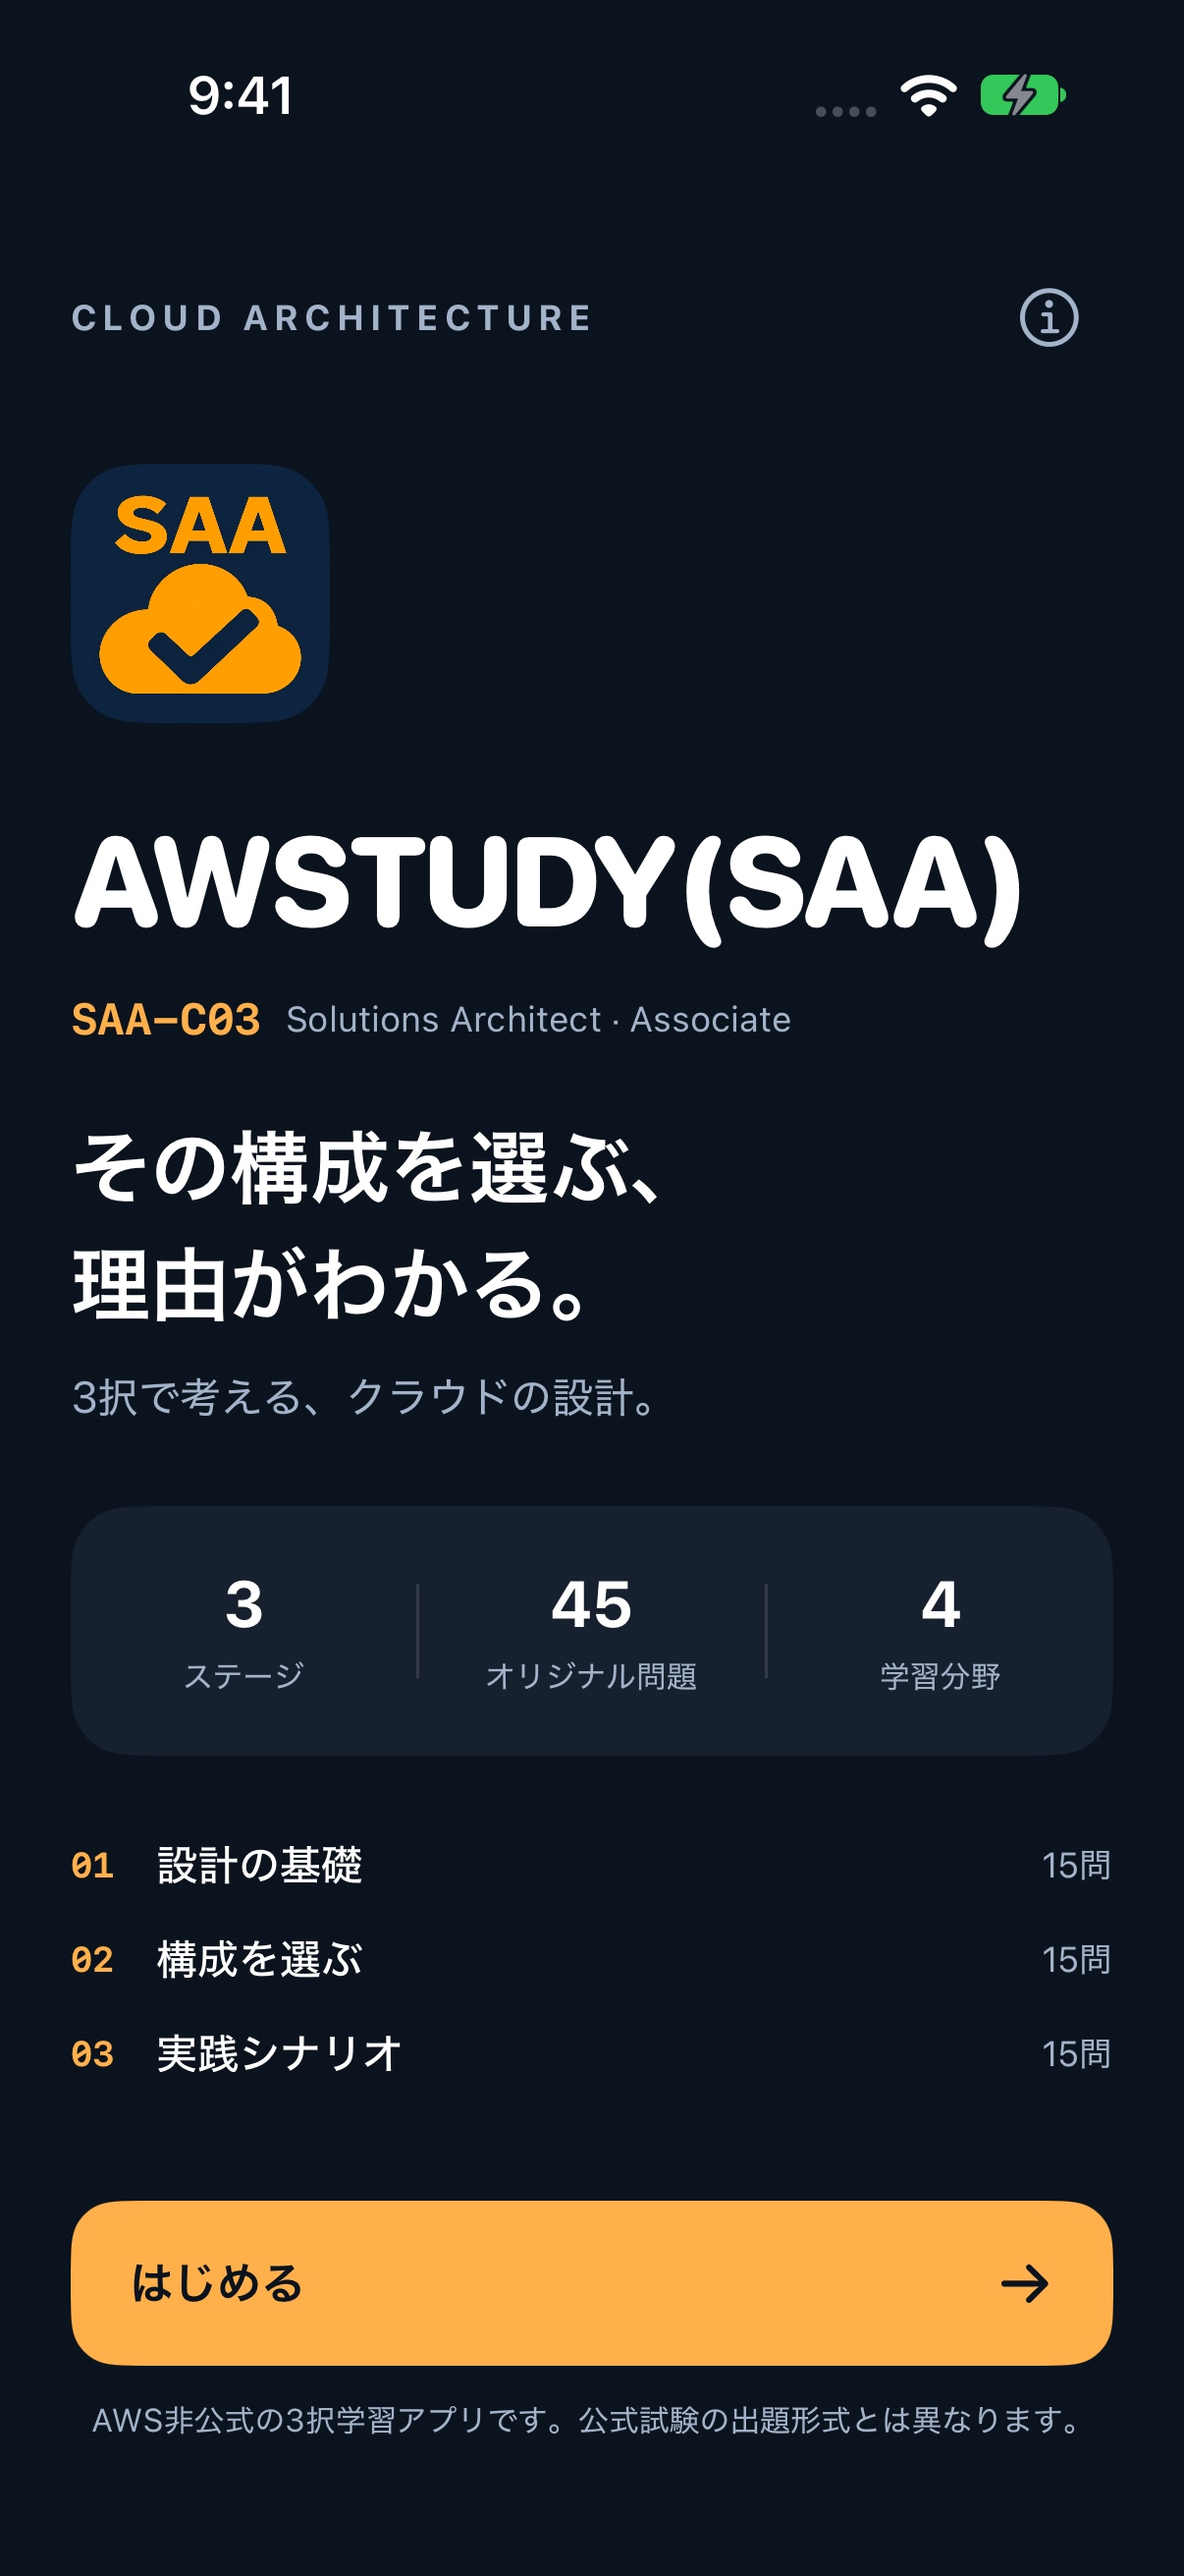
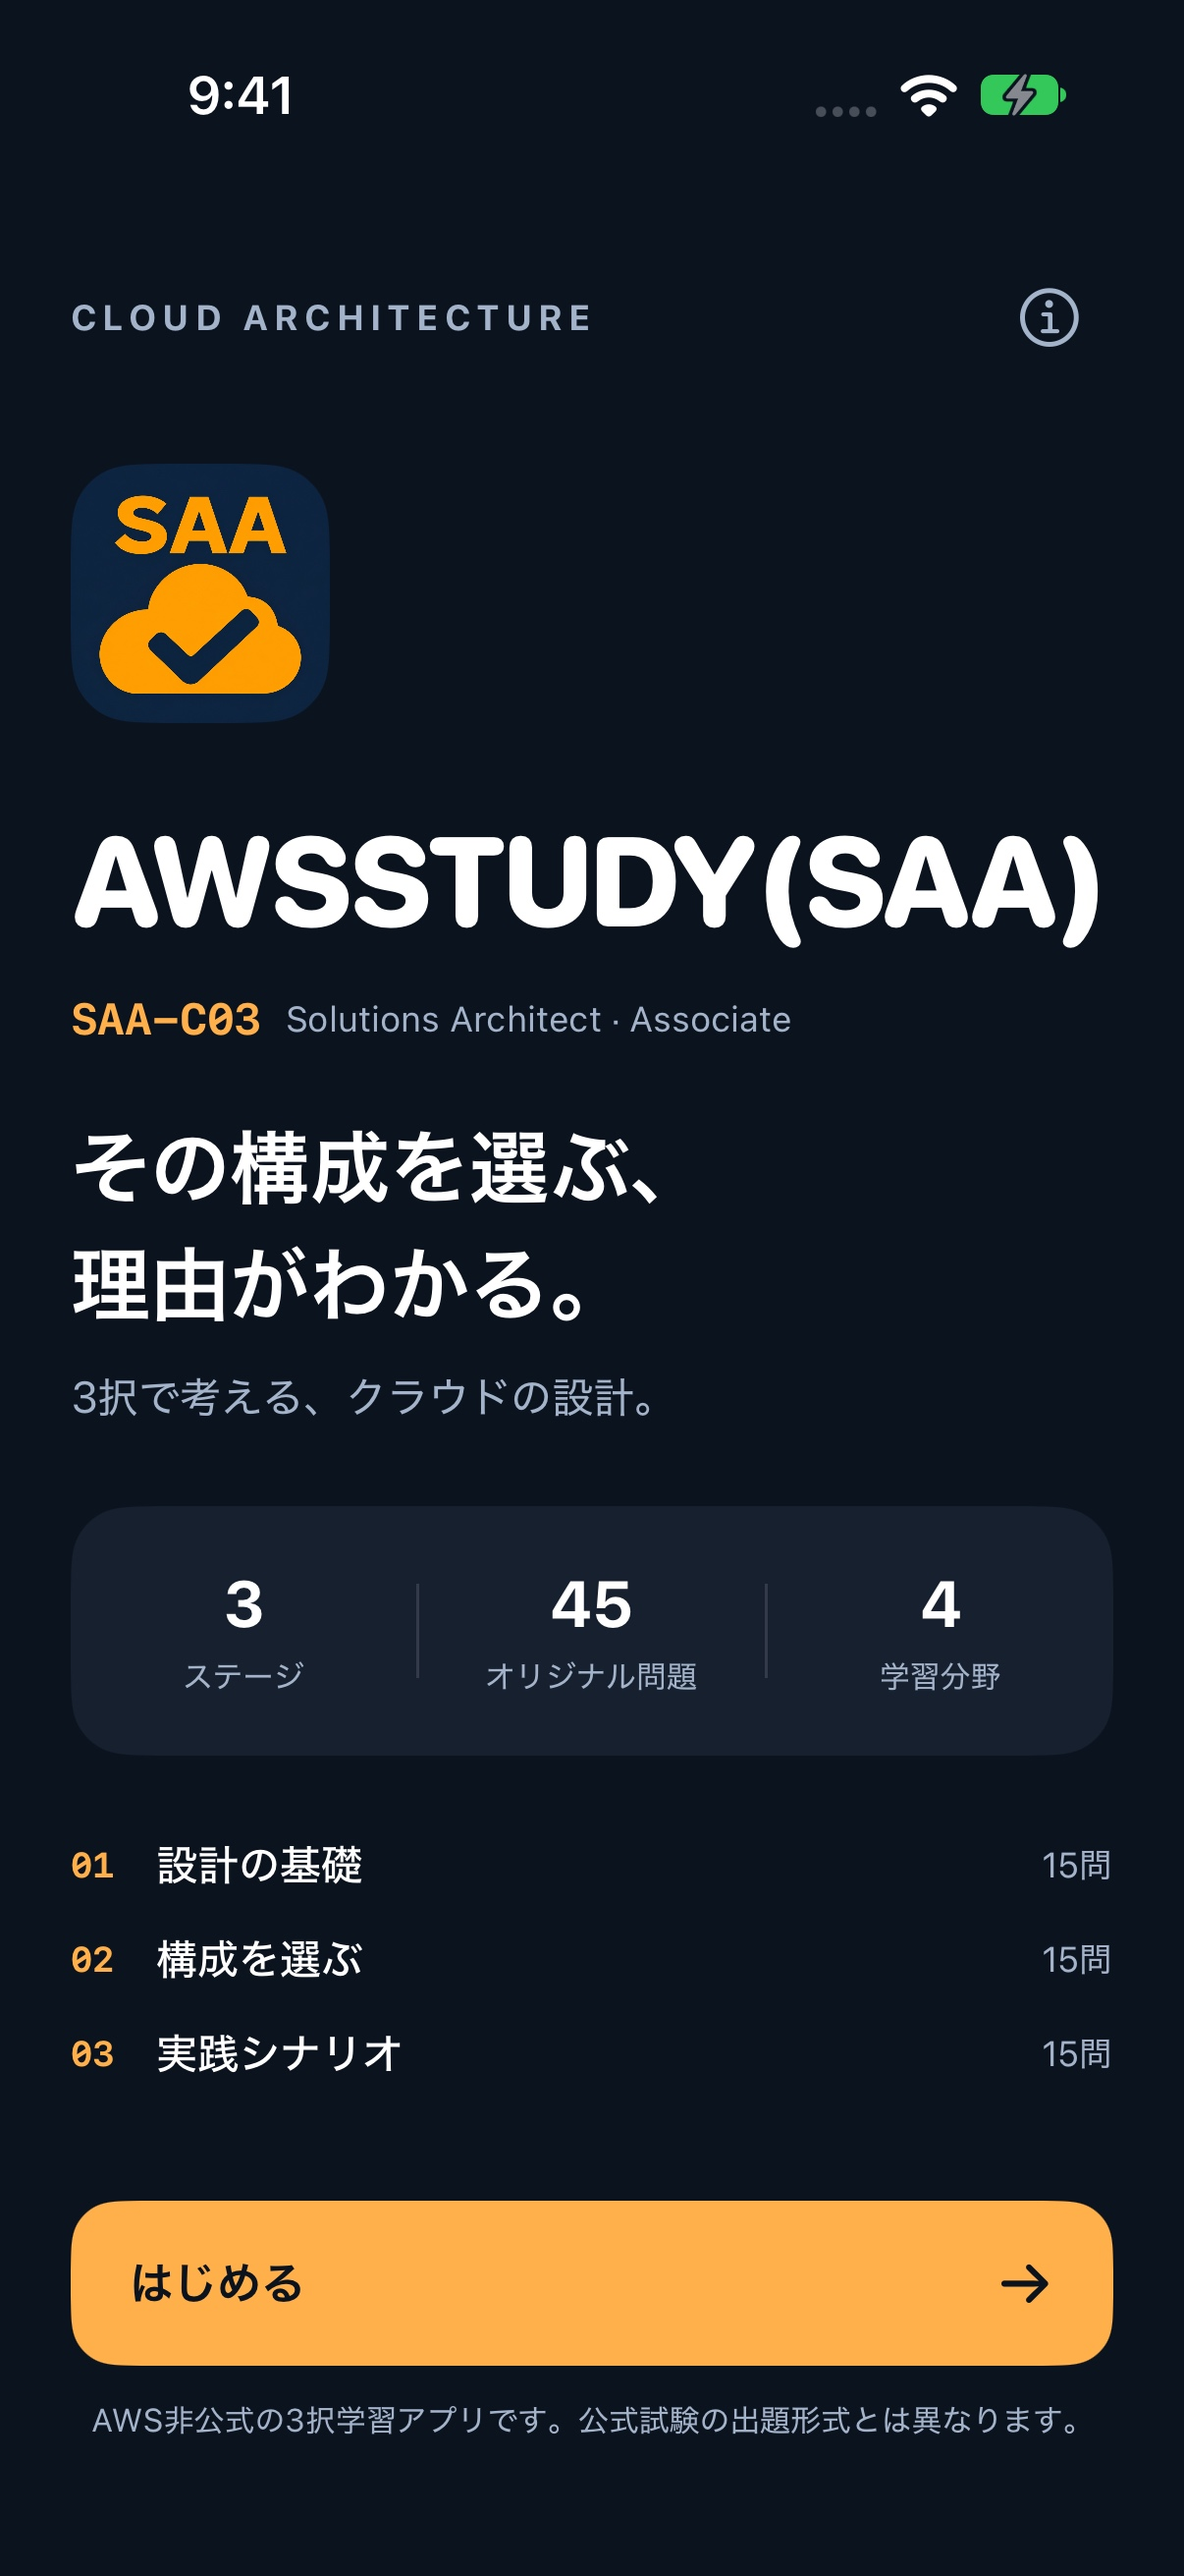
Publish AWSSTUDY support pages and finalize verified submission values

Changed region(s): [[0.2761, 0.3089, 0.9511, 0.3707]]

diff --git a/SAAStudy/ContentView.swift b/SAAStudy/ContentView.swift
@@ -63,7 +63,7 @@ struct ContentView: View {
                     .clipShape(RoundedRectangle(cornerRadius: 22))
                     .accessibilityHidden(true)
                 VStack(alignment: .leading, spacing: 12) {
-                    Text("AWSTUDY(SAA)")
+                    Text("AWSSTUDY(SAA)")
                         .font(.system(size: 43, weight: .heavy, design: .rounded))
                         .tracking(-1.5).minimumScaleFactor(0.65).lineLimit(1)
                     HStack(spacing: 8) {
@@ -455,12 +455,13 @@ private struct AboutView: View {
                     section("広告", "Google AdMobを利用します。結果画面から次のステージ・再挑戦・スタート画面へ移動するときに全画面広告を表示する場合があります。読み込みに失敗した場合は待たずに進めます。広告SDKはIPアドレス、端末識別子、広告の表示・操作情報、診断や性能情報などを扱う場合があります。IPアドレスからおおよその地域を推定する場合があります。")
                     Text("必要な地域では同意画面を表示します。本アプリはトラッキング許可を要求しません。")
                         .font(.subheadline).foregroundStyle(.secondary)
+                    Link("アプリのプライバシーポリシー", destination: URL(string: "https://givetex.org/apps/awstady-saa/privacy/")!)
                     Link("Googleのプライバシーポリシー", destination: URL(string: "https://policies.google.com/privacy?hl=ja")!)
                     if ads.privacyOptionsRequired {
                         Button("広告のプライバシー設定") { Task { await ads.showPrivacyOptions() } }
                     }
-                    Link("サポート", destination: URL(string: "https://github.com/Ben-Kei-create/awsstudy_saa/issues")!)
-                    Text("公開の問い合わせには個人情報を書き込まないでください。")
+                    Link("サポート", destination: URL(string: "https://givetex.org/apps/awstady-saa/support/")!)
+                    Text("お問い合わせにはAWSアクセスキーやパスワードなどの機密情報を含めないでください。")
                         .font(.caption).foregroundStyle(.secondary)
                 }.padding(24)
             }

diff --git a/SAAStudy/InterstitialAds.swift b/SAAStudy/InterstitialAds.swift
@@ -11,7 +11,7 @@ final class InterstitialAds: NSObject, ObservableObject, FullScreenContentDelega
     private var loading = false
     private var canLoadAds = false
 
-    // Debug uses Google test IDs; Release uses the dedicated AWSTUDY(SAA) AdMob IDs.
+    // Debug uses Google test IDs; Release uses the dedicated AWSSTUDY(SAA) AdMob IDs.
     private var unitID: String {
         Bundle.main.object(forInfoDictionaryKey: "AdMobInterstitialUnitID") as? String ?? ""
     }
@@ -57,7 +57,11 @@ final class InterstitialAds: NSObject, ObservableObject, FullScreenContentDelega
         loading = true
         defer { loading = false }
         do {
-            ad = try await InterstitialAd.load(with: unitID, request: Request())
+            let request = Request()
+            let extras = Extras()
+            extras.additionalParameters = ["npa": "1"]
+            request.register(extras)
+            ad = try await InterstitialAd.load(with: unitID, request: request)
             ad?.fullScreenContentDelegate = self
         } catch {
             print("Interstitial unavailable: \(error.localizedDescription)")

diff --git a/Submission/README.md b/Submission/README.md
@@ -1,10 +1,10 @@
-# AWSTUDY(SAA) 申請準備（未完了）
+# AWSSTUDY(SAA) 申請準備（未完了）
 
 2026-11-03。完成版のApp Store申請キットは、必須条件が整うまで出力しません。Apple／AdMob管理画面の操作、Archive、アップロード、審査送信は行っていません。
 
 ## 決定事項
 
-- 名前：AWSTUDY(SAA)。Bundle IDは本人指定の `com.fumiaki.awsstudysaa` に更新。
+- 名前：AWSSTUDY(SAA)。Bundle IDは本人指定の `com.fumiaki.awsstudysaa` に更新。
 - iOS App／iPhoneのみ／iOS17以降。提出用はRelease Archive → App Store Connect。
 - 無料・アプリ内課金なし、全世界配信、審査承認後に自動公開。
 - 初回は興味・関心の独自収集なし・ATTなし。トレーダー。
@@ -12,7 +12,7 @@
 - Releaseの専用AdMobアプリID：`ca-app-pub-4859622277330192~4404081101`
 - ReleaseのインタースティシャルID：`ca-app-pub-4859622277330192/7934638717`
 - DebugはGoogleのテストIDを維持。提供されたバナーIDは実装に使用しない。
-- 承認済みの広告設定：Publisher first-party ID無効、非パーソナライズ扱い、広告コンテンツ上限G。
+- 承認済みの広告設定：Publisher first-party ID無効、PPT disabled、広告リクエストにnpa=1、広告コンテンツ上限G。
 
 ## 作成済み
 
@@ -29,29 +29,29 @@
 | Releaseの実際の識別情報 | [evidence/release-build-info.json](evidence/release-build-info.json) |
 | 同梱SDKのマニフェスト | [evidence/sdk-privacy-manifests.json](evidence/sdk-privacy-manifests.json) |
 | 公式資料と確認日 | [official-sources.md](official-sources.md) |
-| サイト公開後に適用するアプリ内リンク案（未適用） | [proposed/published-site-links.patch](proposed/published-site-links.patch) |
+| 承認を受けて適用済みのアプリ内リンク変更 | [evidence/applied-published-site-links.patch](evidence/applied-published-site-links.patch) |
 | 本人指定の審査連絡先（ローカル・Git対象外） | `private/review-contact.json` |
 
 ## GiveTex
 
 作業場所：`/Applications/GiveTeX`、ブランチ `codex/saa-study-pages`。
 
-- [PR #16](https://github.com/Ben-Kei-create/GiveTeX/pull/16)（未マージ）
+- [PR #16](https://github.com/Ben-Kei-create/GiveTeX/pull/16)（2026-11-03に承認を受けてマージ・公開済み）
 - [Vercelプレビュー](https://give-te-x-git-codex-saa-study-pages-ben-kei-creates-projects.vercel.app/apps/awstady-saa/)（Vercel認証が必要）
 - トップ／サポート／プライバシーの静的HTMLと実画面6枚のWeb縮小版を作成。
 - 1440px・390px幅で表示確認、画像読込成功、ページ全体の横はみ出しなし。各内部リンク・画像属性・サイトマップXMLを検証。
 - 提出用の元画像はサイトへ追加せず、幅480pxのJPEGと256pxのアイコンのみ使用。
-- VercelのCI成功を確認。接続アカウントはプレビュー保護のアクセス権がなく、リモートの本文表示は未検証。本人のプレビュー確認、またはVercel接続のプロジェクト／チーム権限の更新が必要。保護設定は変更しない。
-- 予定URLは `/apps/awstady-saa/`、`support/`、`privacy/`。現状は本番404で、公開済みURLとは扱わない。
+- VercelのCI成功を確認。プレビューの接続権限はなかったため、本番公開後に1440px・390px幅で本文・画像・リンクを直接検証しました。保護設定は変更していません。
+- 本番URLは `/apps/awstady-saa/`、`support/`、`privacy/`。2026-11-03に3ページのHTTP200とAWSSTUDY(SAA)の本文を確認済み。
 - `https://givetex.org/app-ads.txt` はwwwホストへのリダイレクト後にHTTP200。`pub-4859622277330192` の行と一致。AdMob管理画面での確認完了は別途必要。
 
-## 完成を妨げる項目と完了条件
+## 確認状況と残る完了条件
 
 | 残件 | 必要な対応・完了条件 |
 | --- | --- |
 | App ID／アプリレコード | 本人が登録し、Bundle ID・Team・名前を照合 |
-| サイトの公開 | 本人のプレビュー確認と明示的なマージ承認後に公開。3ページのHTTP200・本文・画像を検証 |
-| アプリ内ポリシーURL | 公開後のリンク案を承認・適用し、アプリから到達できることを確認 |
+| サイトの公開 | **完了**。2026-11-03に公開承認を受けてPR #16をマージ。3ページの本番HTTP200・本文・画像を確認 |
+| アプリ内ポリシーURL | **完了**。公開後リンクを適用し、2サイズのUIテストで情報画面のリンク表示を確認 |
 | 広告・同意・プライバシー | AdMobの地域別設定／配信元／app-ads確認状態、必要な同意画面、実機挙動、ArchiveのPrivacy ReportとApp Privacyの全分岐を照合 |
 | 対応端末と実機 | 本人が実機で主要フロー・広告を確認。iOS17の最小OS環境は未検証 |
 | 署名・Archive・提出ビルド | 本人が配布用署名・Archive・アップロードを実施し、処理済みビルドを確認 |

diff --git a/Submission/05-confirmed-values.md b/Submission/05-confirmed-values.md
@@ -1,0 +1,69 @@
+# 公開後に確定した入力値
+
+2026-11-03。公開URL・識別子・本人の配信方針を確定した資料です。署名付き提出ビルド・実機・広告管理画面の確認完了を意味しません。
+
+名前：
+
+```text
+AWSSTUDY(SAA)
+```
+
+Bundle ID：
+
+```text
+com.fumiaki.awsstudysaa
+```
+
+SKU：
+
+```text
+awsstudysaa-ios-001
+```
+
+サポートURL（公開HTTP200、本文と問い合わせ先の確認済み）：
+
+```text
+https://givetex.org/apps/awstady-saa/support/
+```
+
+プライバシーポリシーURL（公開HTTP200、本文確認済み）：
+
+```text
+https://givetex.org/apps/awstady-saa/privacy/
+```
+
+マーケティングURL（公開HTTP200、本文と画像確認済み）：
+
+```text
+https://givetex.org/apps/awstady-saa/
+```
+
+上記URLは `www.givetex.org` の同じパスへリダイレクト後、正常表示します。アプリ内の情報画面にもポリシーとサポートを設定しました。
+
+| 項目 | 入力する値／状態 | 根拠 |
+| --- | --- | --- |
+| プラットフォーム | iOS | プロジェクト確認済み |
+| プライマリ言語 | 日本語 | 実装確認済み |
+| バージョン | 1.0 | Release確認済み |
+| ビルド番号 | 1 | Release確認済み。アップロード済みとはしない |
+| カテゴリ | 教育 | 実装に基づく推奨回答 |
+| 価格 | 無料 | 本人決定済み |
+| 配信地域 | すべての国または地域 | 本人決定済み。地域別許認可の充足は未確認 |
+| 公開方法 | 審査承認後、自動公開 | 本人決定済み |
+| トレーダー | トレーダー | 本人決定済み。Appleでの連絡先検証は本人操作 |
+| サインインが必要 | チェックしない | 実装確認済み |
+| 広告 | あり | インタースティシャルの実装あり |
+| アプリ内購入／購読 | なし | 実装なし |
+| 最新情報 | 初回バージョンのため入力不要 | 初回提出 |
+| アプリプレビュー | 使用しない | 初回の任意素材は作成しない |
+| App Clip／iMessage／Game Center／経路案内ファイル | 対象外 | 実装なし |
+| 非免除暗号化フラグ | false | Release Info.plistで確認。輸出コンプライアンスの管理画面適用は未確認 |
+| アプリまたは第三者SDKのデータ収集 | はい | 同梱GMA・UMPマニフェスト |
+
+年齢設問は03-store-form-candidates.mdの「広告あり・その他の固定コンテンツ項目なし」を推奨回答として使用します。算定された年齢値と地域表示はApple画面で確認するため、特定の年齢値を手入力で断定しません。
+
+## 確定できない事項
+
+トラッキングに関する回答は、同梱13.9.0がデバイスIDをTracking=trueと宣言し、PPTだけでは第三者広告追跡を許す場合があるため、今回のAdMob配信構成との照合前に「なし」へ確定しません。npa=1を追加済みですが、非Google需要等には管理画面の条件もあります。詳しい根拠は02-privacy-review.mdに記録しています。
+
+実機の確認、AdMobの地域別同意設定、署名付きArchive・アップロード・提出ビルド選択も未実施です。これらを確認済みに書き換えず、完成版の申請キットを出す前の残件として維持します。

diff --git a/Submission/screenshots/UPLOAD-HERE.md b/Submission/screenshots/UPLOAD-HERE.md
@@ -9,7 +9,7 @@
 - 05-review.jpg
 - 06-review-result.jpg
 
-すべて1206×2622ピクセル・JPEG・透過なし。AWSTUDY(SAA)の実際のiPhone 18 Pro画面を撮影したものです。
+すべて1206×2622ピクセル・JPEG・透過なし。AWSSTUDY(SAA)の実際のiPhone 18 Pro画面を撮影したものです。
 
 `iphone-6.9` の1320×2868版は別の6.9インチ枠用です。今回の枠へは入れないでください。寸法の異なるアプリプレビュー動画の欄や、ヘッダ・検索結果用のアセット欄とも分けてください。
 

diff --git a/Submission/04-device-checklist.md b/Submission/04-device-checklist.md
@@ -5,7 +5,7 @@
 ## Apple
 
 - [ ] Explicit App ID `com.fumiaki.awsstudysaa` を正しいTeamで登録
-- [ ] App Store Connectに `AWSTUDY(SAA)` のiOSアプリレコードを作成
+- [ ] App Store Connectに `AWSSTUDY(SAA)` のiOSアプリレコードを作成
 - [ ] 名前・Bundle ID・SKU、iPhoneのみ、iOS17以降を照合
 - [ ] アカウント契約・トレーダー情報の検証状態を確認（公開連絡先は本人が直接入力）
 - [ ] 全世界配信の地域要件・許認可欄を確認。該当しない項目と未確認を区別
